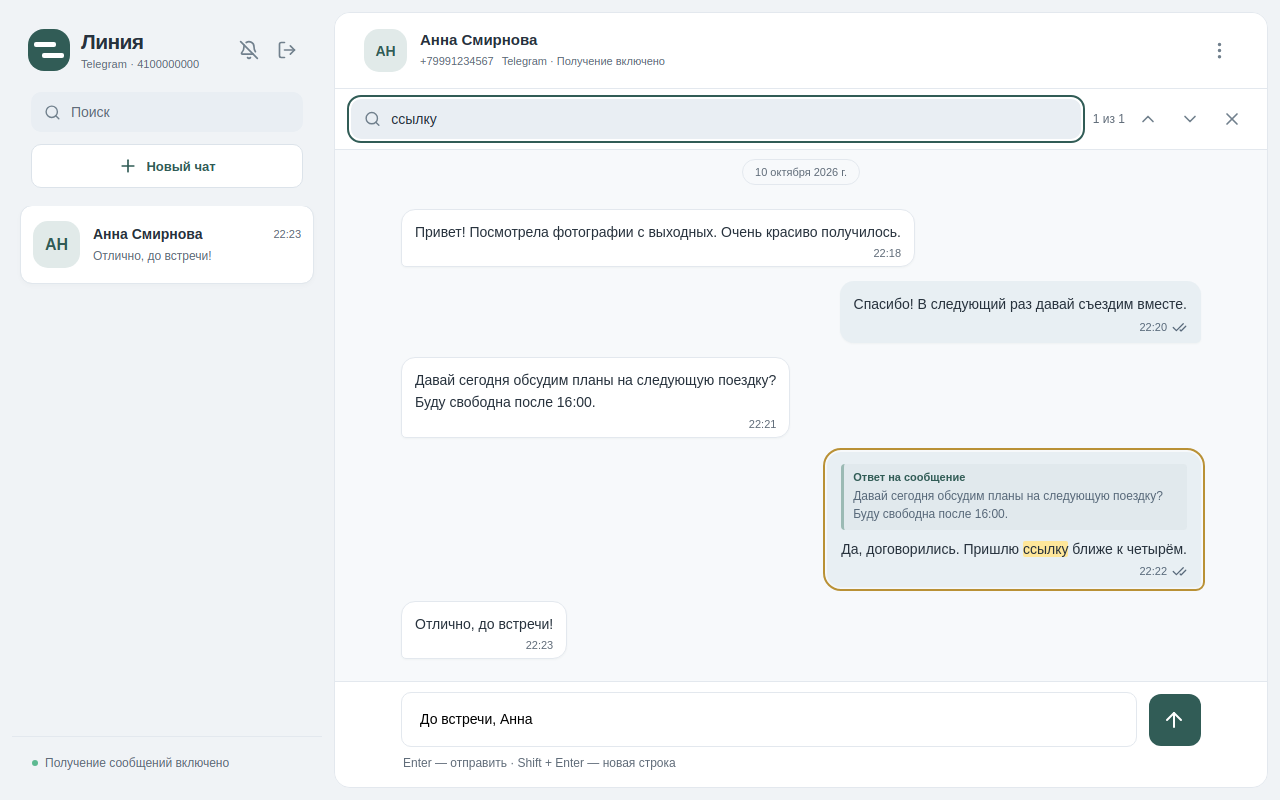
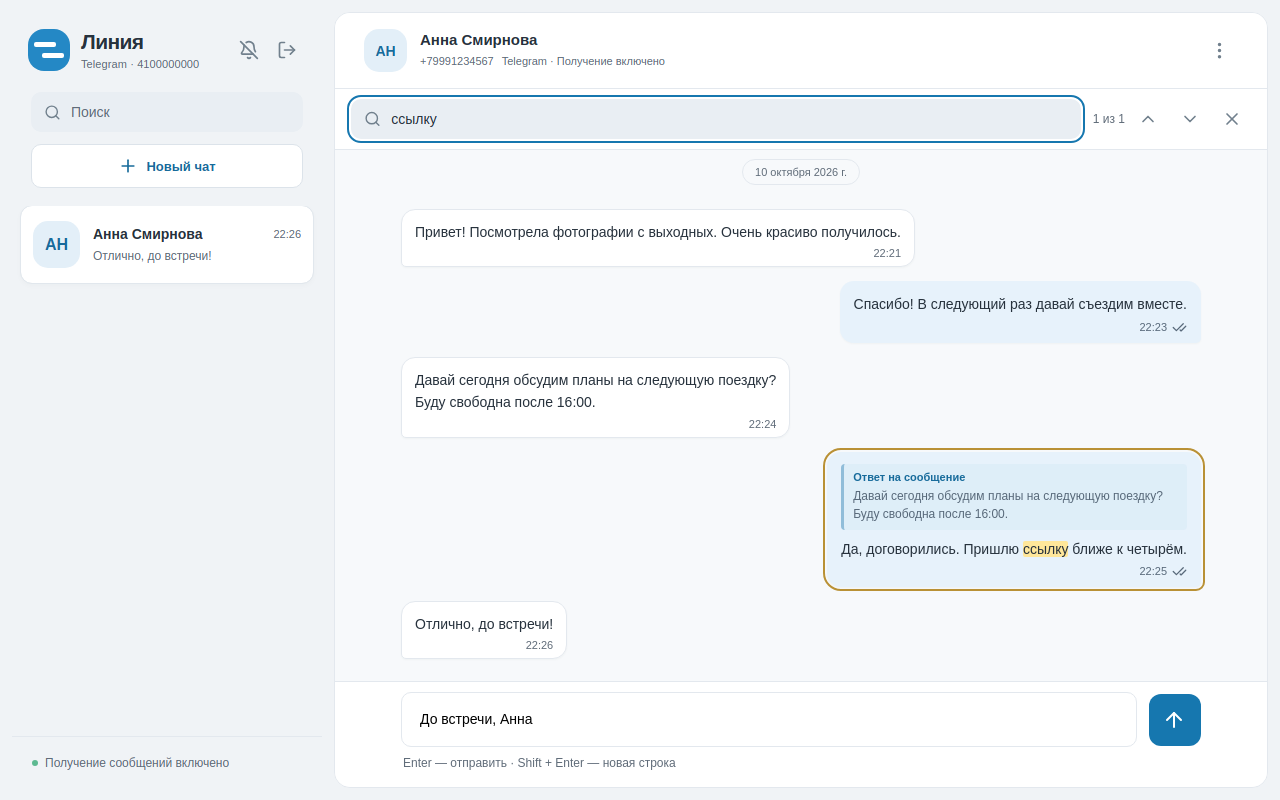
Restore the original blue palette

diff --git a/src/styles.css b/src/styles.css
@@ -6,7 +6,7 @@
   text-rendering: optimizeLegibility;
   -webkit-font-smoothing: antialiased;
   font-weight: 400;
-  --accent: #315c56;
+  --accent: #1677af;
   --muted: #606c79;
   --border: #e3e8ee;
 }
@@ -63,7 +63,7 @@ textarea {
 input:focus,
 textarea:focus {
   border-color: var(--accent);
-  box-shadow: 0 0 0 3px #315c5612;
+  box-shadow: 0 0 0 3px #1677af12;
 }
 input:disabled {
   background: #f7f9fb;
@@ -115,7 +115,7 @@ form > label:first-child {
   width: 84px;
   height: 84px;
   color: white;
-  background: #315c56;
+  background: #2488c5;
   flex-shrink: 0;
 }
 .logo-line {
@@ -164,7 +164,7 @@ form > label:first-child {
   color: white;
 }
 .primary:hover:enabled {
-  background: #264a45;
+  background: #1c77ae;
 }
 .secondary {
   background: #eef2f6;
@@ -388,13 +388,13 @@ details label {
   border-radius: 10px;
   padding: 11px;
   background: white;
-  color: #315c56;
+  color: #176b9b;
   font-size: 13px;
   font-weight: 600;
   margin-top: 12px;
 }
 .new-chat-button:hover {
-  background: #e7eeed;
+  background: #eaf5fb;
 }
 .chat-list {
   overflow-y: auto;
@@ -427,8 +427,8 @@ details label {
   width: 47px;
   height: 47px;
   border-radius: 15px;
-  background: #e1eae9;
-  color: #315c56;
+  background: #e3eff8;
+  color: #176b9b;
   flex-shrink: 0;
   font-size: 16px;
   font-weight: 600;
@@ -561,7 +561,7 @@ details label {
   display: flex;
   align-items: center;
   justify-content: center;
-  color: #315c56;
+  color: #176b9b;
   margin-bottom: 16px;
 }
 .welcome h1 {
@@ -658,7 +658,7 @@ details label {
   min-width: 85px;
 }
 .outgoing .bubble {
-  background: #e8eff3;
+  background: #e7f2fb;
   border-radius: 14px 14px 5px 14px;
   color: #27323d;
   border-color: transparent;
@@ -683,10 +683,10 @@ details label {
 }
 .delivery {
   display: flex;
-  color: #315c56;
+  color: #176b9b;
 }
 .delivery.read {
-  color: #315c56;
+  color: #176b9b;
 }
 .delivery.failed,
 .bubble.failed .message-meta {
@@ -759,7 +759,7 @@ details label {
   margin-bottom: 1px;
 }
 .send-button:hover:enabled {
-  background: #264a45;
+  background: #1c77ae;
 }
 .send-button svg {
   margin-left: -2px;
@@ -1129,7 +1129,7 @@ select:disabled {
   display: inline-flex;
   gap: 5px;
   align-items: center;
-  color: #315c56;
+  color: #176b9b;
   background: transparent;
   font-size: 12px;
   padding: 4px 0;
@@ -1170,7 +1170,7 @@ mark {
   border-radius: 2px;
 }
 .bubble.search-match {
-  outline: 2px solid #315c56;
+  outline: 2px solid #1677af;
   outline-offset: 2px;
 }
 .reply-button {
@@ -1184,7 +1184,7 @@ mark {
   margin: 0 5px;
   border-radius: 50%;
   background: #ffffffa6;
-  color: #315c56;
+  color: #176b9b;
   opacity: 0;
 }
 .outgoing .reply-button {
@@ -1205,7 +1205,7 @@ mark {
   background: white;
   border-radius: 10px;
   border-left: 3px solid var(--accent);
-  color: #315c56;
+  color: #176b9b;
 }
 .reply-preview > div {
   flex: 1;
@@ -1228,13 +1228,13 @@ mark {
   align-items: flex-start;
   text-align: left;
   gap: 4px;
-  background: #315c5610;
-  border-left: 3px solid #315c56;
+  background: #1677af10;
+  border-left: 3px solid #1677af;
   border-radius: 4px;
   padding: 7px 9px;
   margin-bottom: 8px;
   width: 100%;
-  color: #315c56;
+  color: #176b9b;
 }
 .quoted-message strong {
   font-size: 11px;
@@ -1369,9 +1369,9 @@ mark {
   color: #58697a;
 }
 .outgoing .quoted-message {
-  background: #315c560a;
-  border-color: #9bbab4;
-  color: #315c56;
+  background: #1677af0a;
+  border-color: #90bdd9;
+  color: #176b9b;
 }
 .outgoing .quoted-message span {
   color: #58697a;

diff --git a/index.html b/index.html
@@ -3,7 +3,7 @@
   <head>
     <meta charset="UTF-8" />
     <meta name="viewport" content="width=device-width, initial-scale=1.0" />
-    <meta name="theme-color" content="#315c56" />
+    <meta name="theme-color" content="#2488c5" />
     <meta
       name="description"
       content="Чат Telegram, MAX и WhatsApp на React с отправкой и получением текстовых сообщений через GREEN-API."
